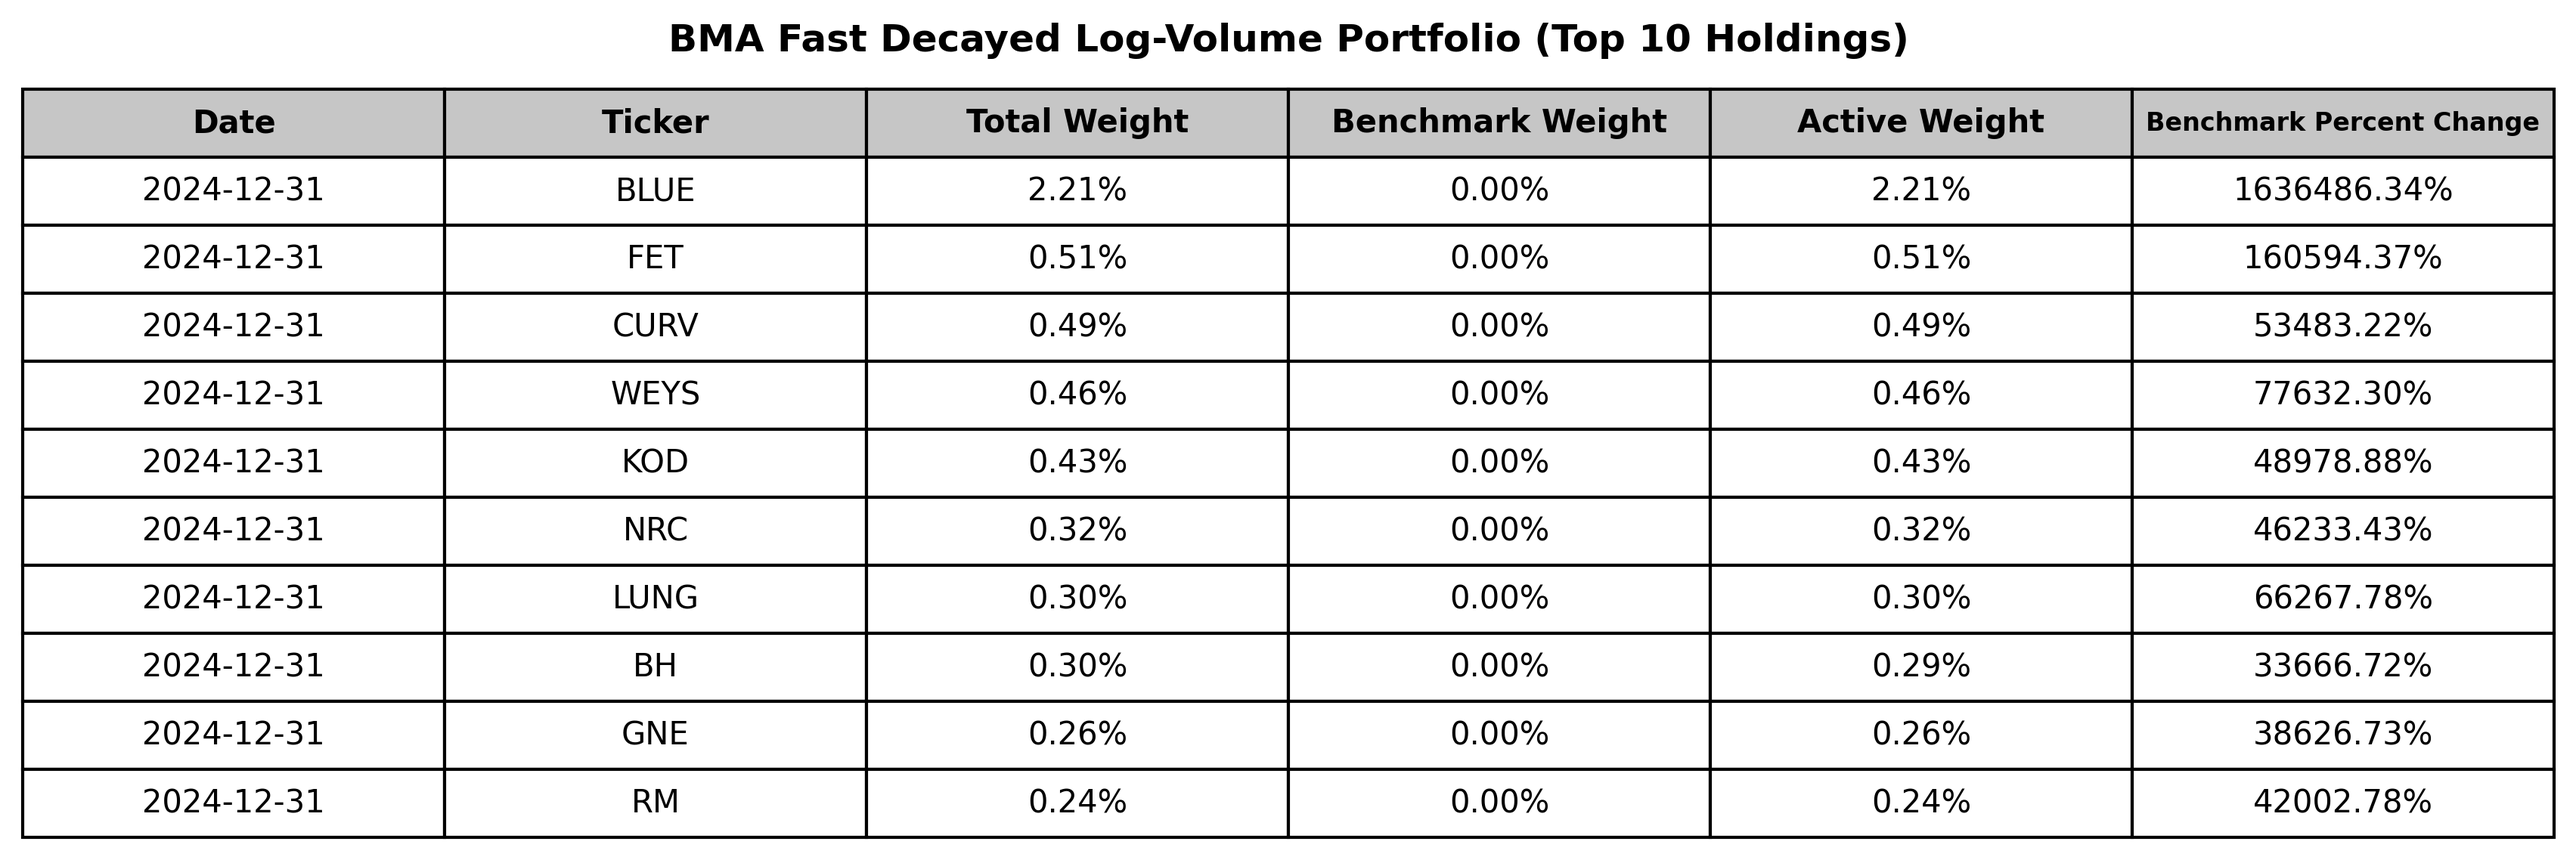
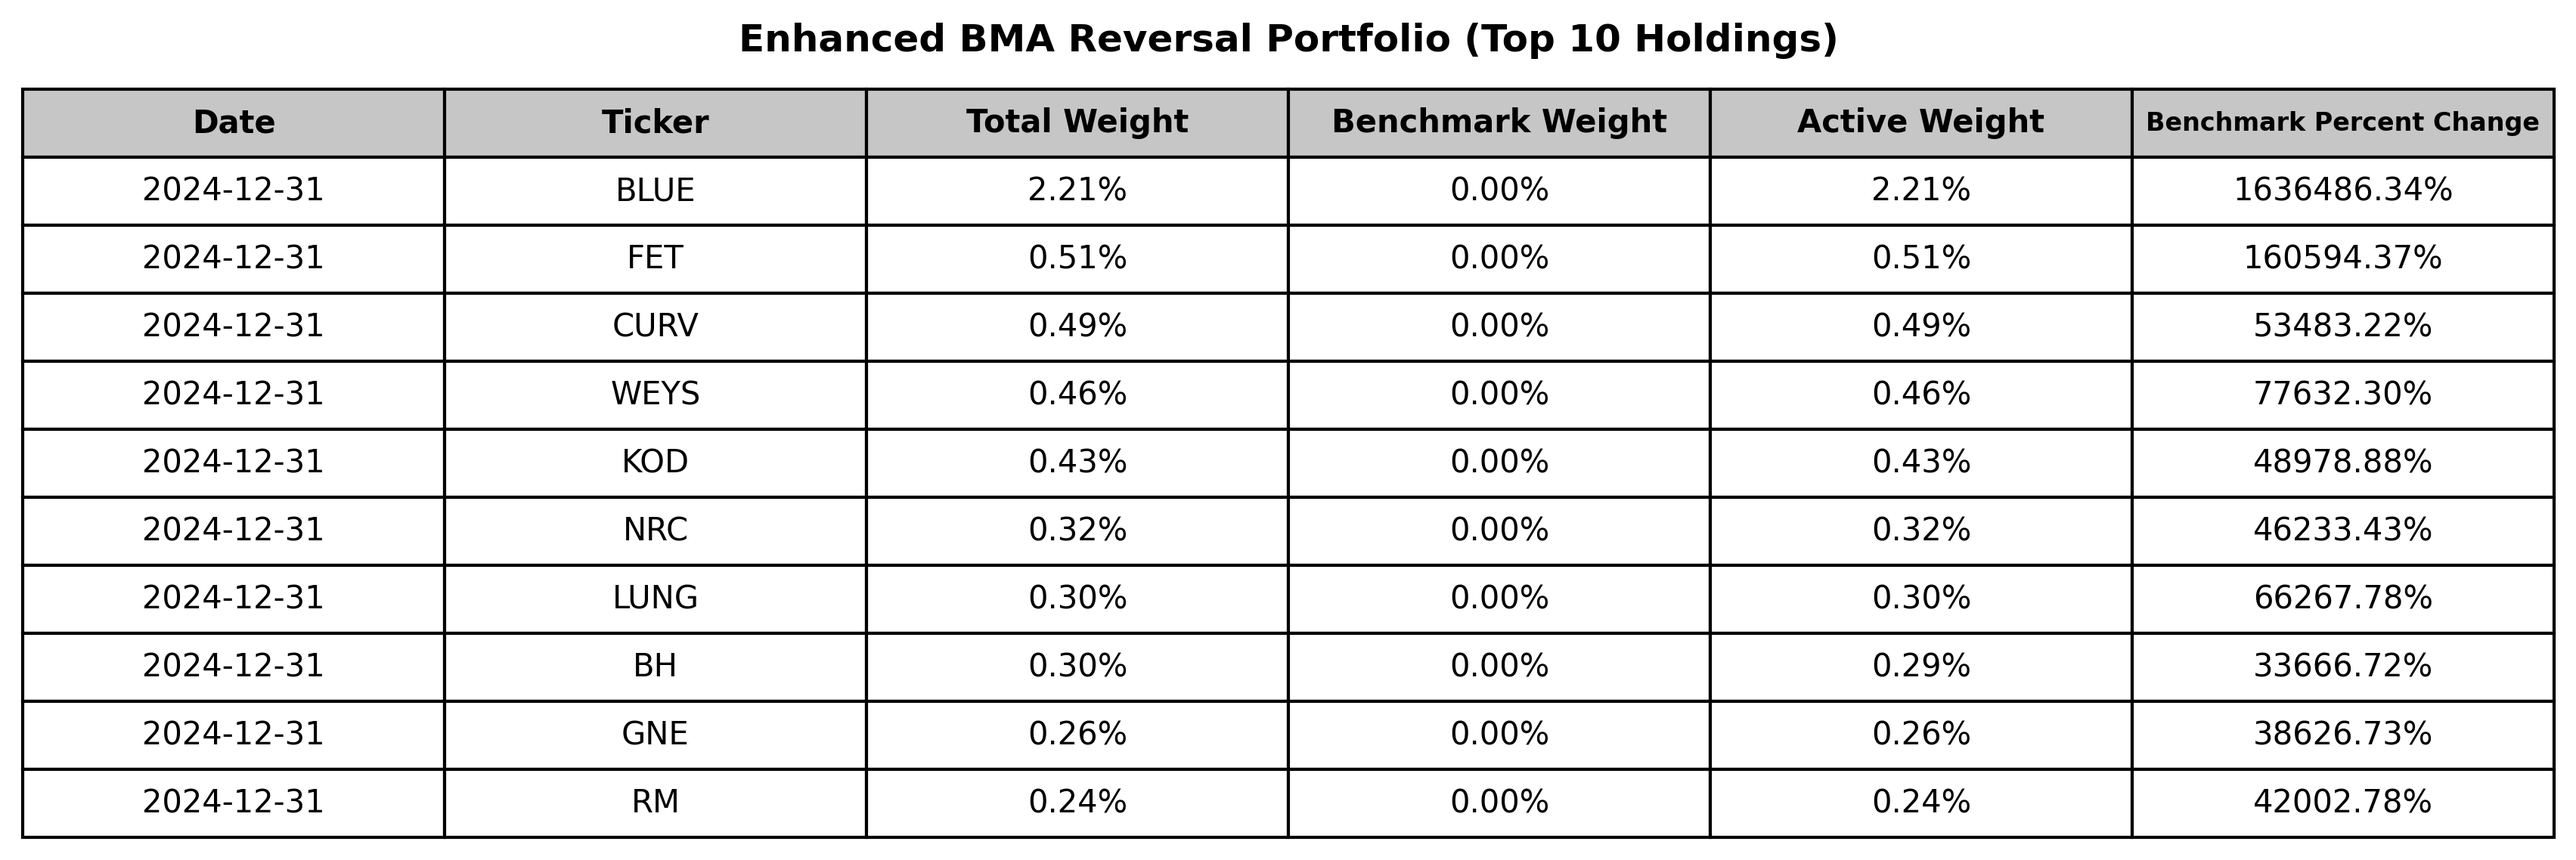
Pushing final updates

Changed region(s): [[0.2489, 0.0308, 0.7467, 0.0615]]

diff --git a/research/experiments/conditional_bma_reversal/experiment_9.py b/research/experiments/conditional_bma_reversal/experiment_9.py
@@ -116,10 +116,8 @@ for i in range(len(top_10_df.columns)):
     else:
         header_cell.set_fontsize(10)
 
-plt.title("BMA Fast Decayed Log-Volume Portfolio (Top 10 Holdings)", weight="bold", pad=20)
+plt.title("Enhanced BMA Reversal Portfolio (Top 10 Holdings)", weight="bold", pad=20)
 
 table_path = results_folder / "portfolio.png"
 plt.savefig(table_path, bbox_inches='tight', dpi=300)
 plt.close()
-
-print(f"Portfolio table successfully saved to {table_path}")
